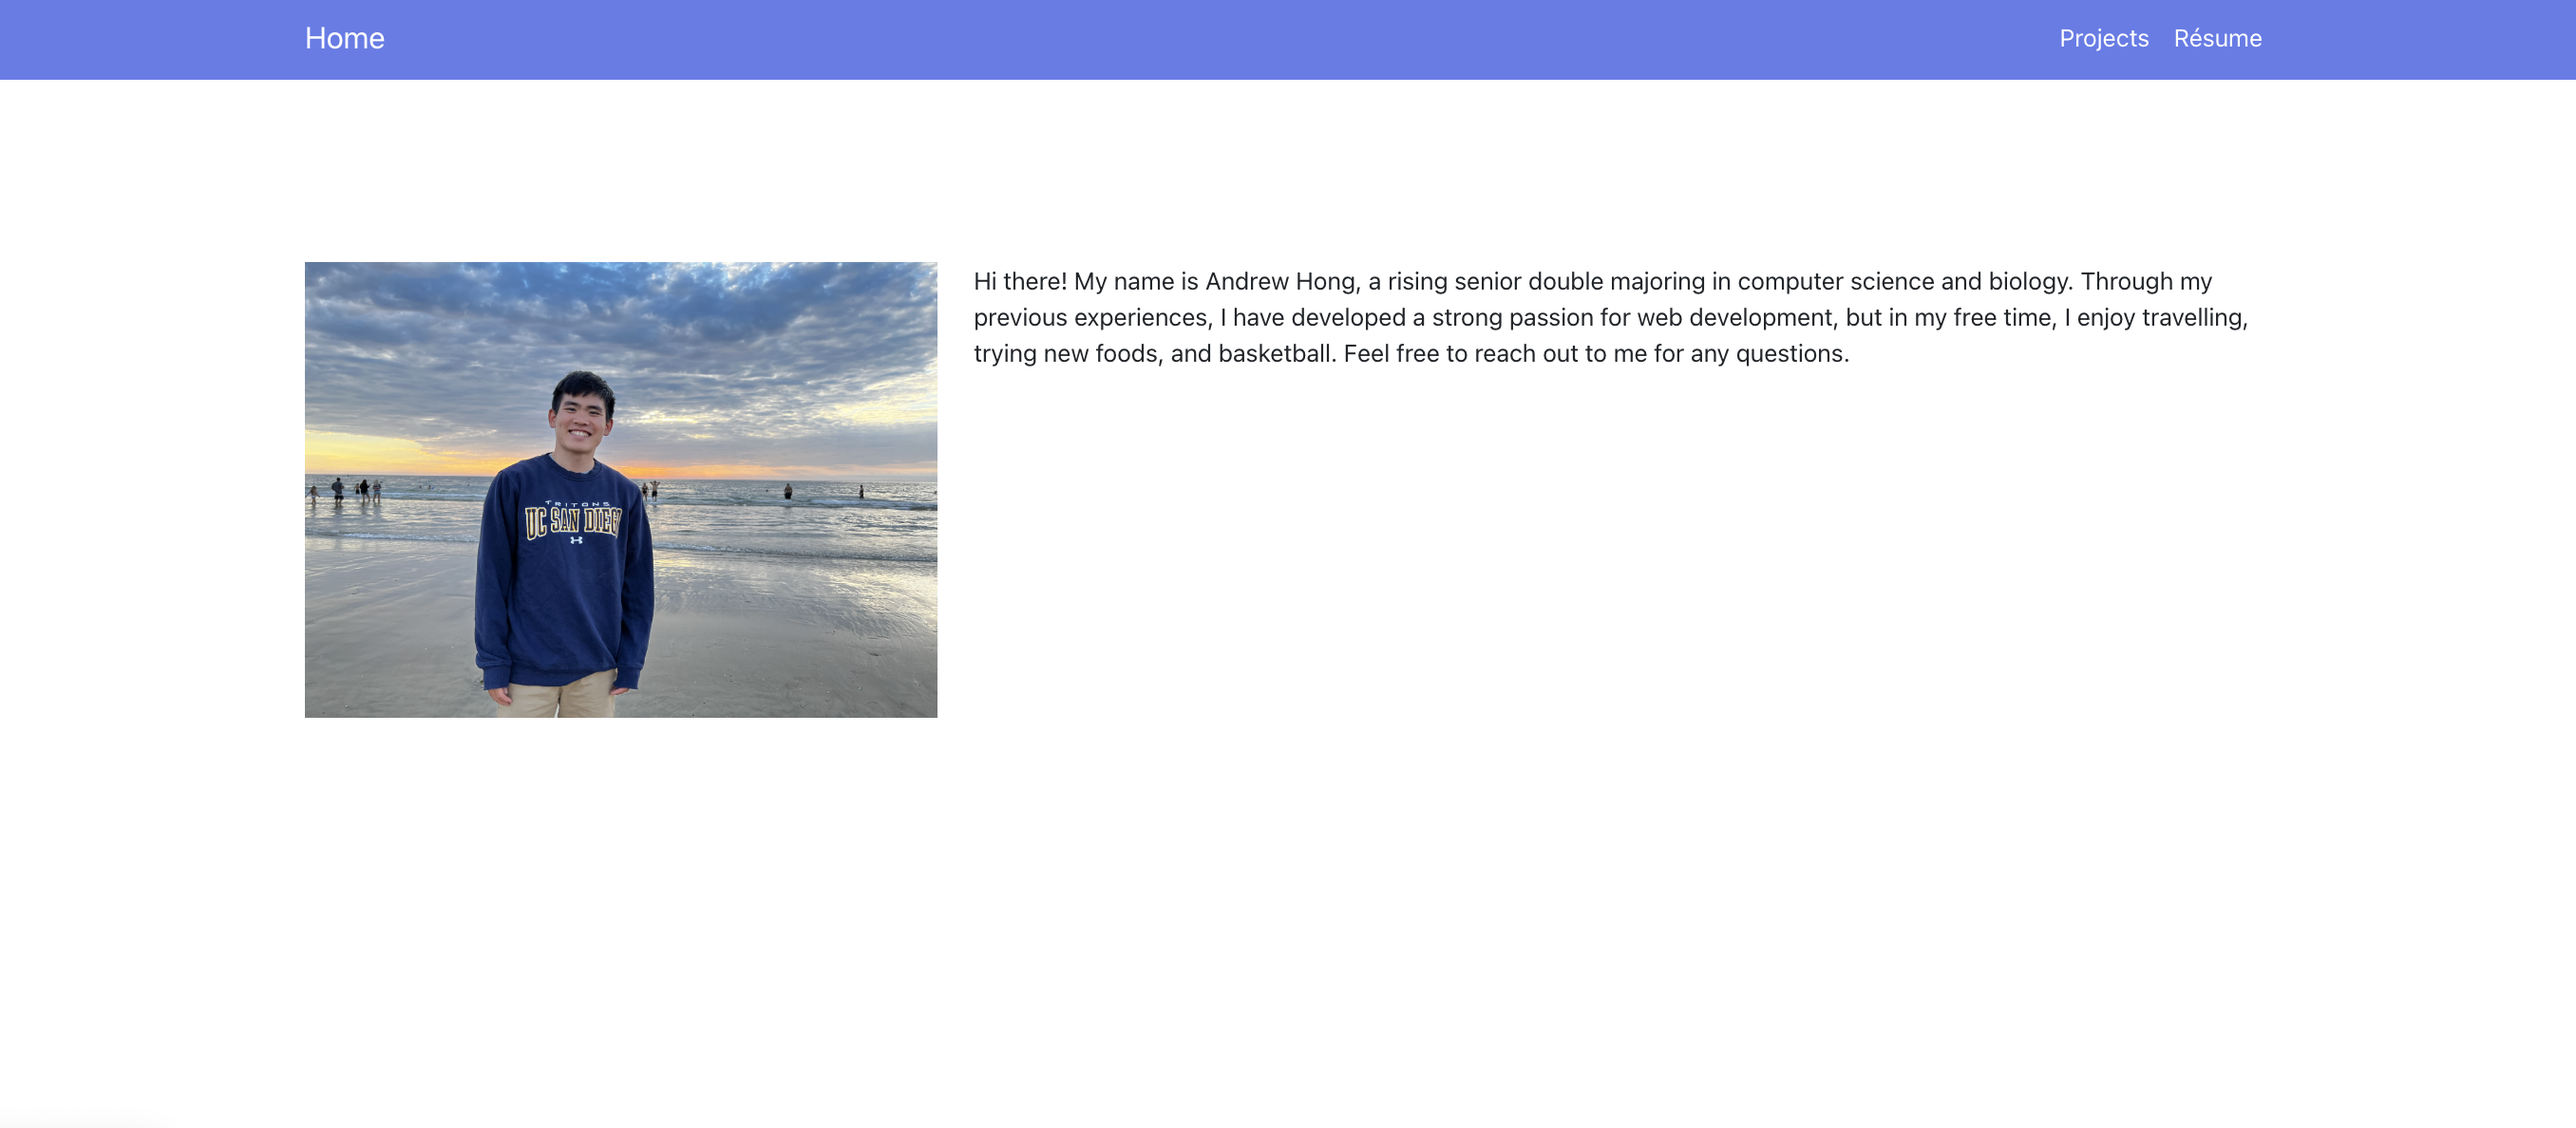
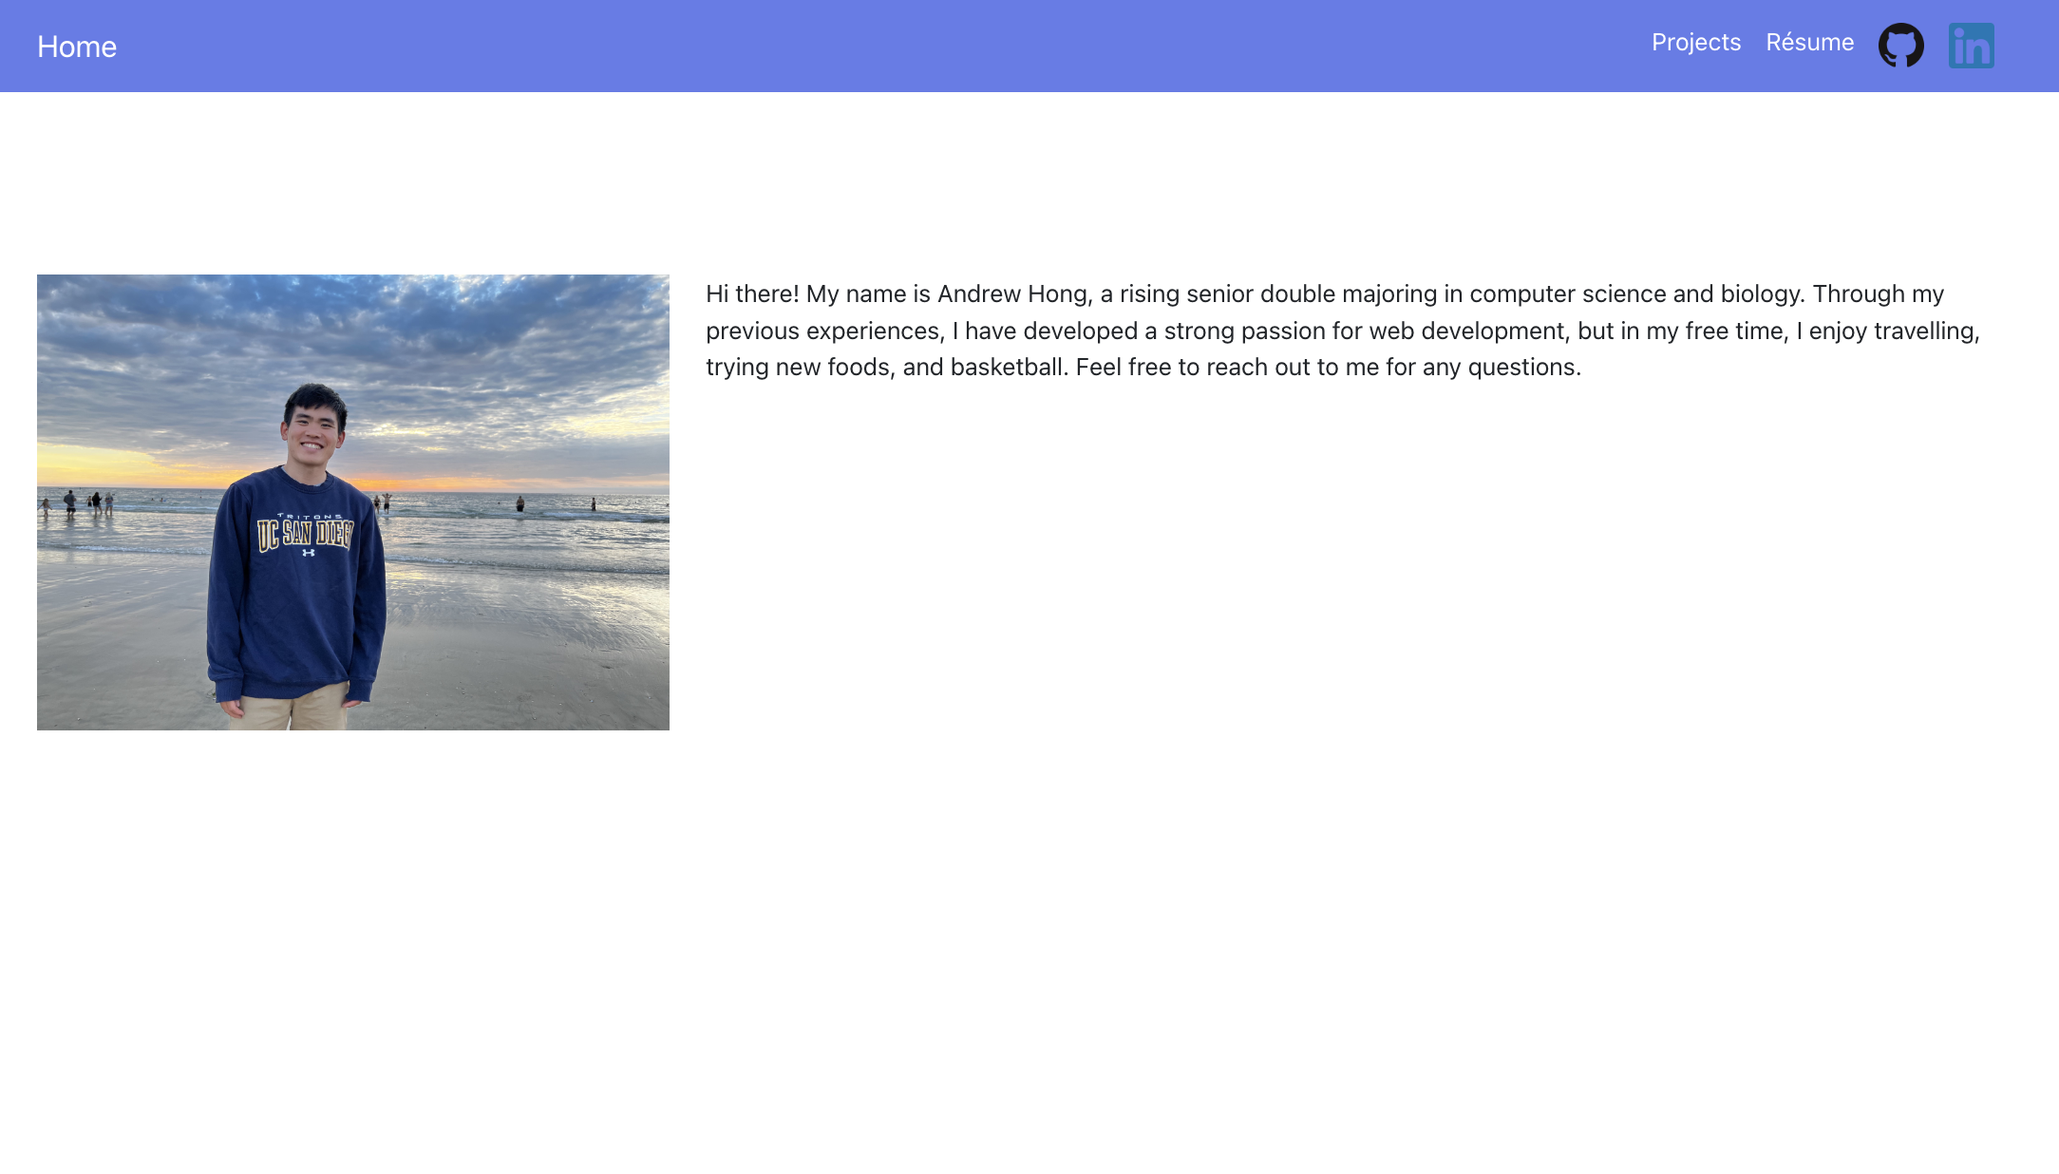
fix navbar

Changed region(s): [[0.0, 0.218, 0.958, 0.654], [0.0, 0.0, 1.0, 0.0934]]

diff --git a/src/components/MainNavBar.js b/src/components/MainNavBar.js
@@ -1,8 +1,11 @@
 import Container from 'react-bootstrap/Container';
 import Nav from 'react-bootstrap/Nav';
 import Navbar from 'react-bootstrap/Navbar';
+import Image from 'react-bootstrap/Image'
 import React from 'react';
 
+import github from "../data/images/gitHub.png";
+import linkedin from "../data/images/linkedin.png";
 import "./style/MainNavBar.css";
 
 class MainNavBar extends React.Component {
@@ -15,6 +18,12 @@ class MainNavBar extends React.Component {
                     <Nav className="ms-auto">
                         <Nav.Link className="link" href="/projects">Projects</Nav.Link>
                         <Nav.Link className="link" href="/resume">Résume</Nav.Link>
+                        <Nav.Link className="link" href="https://github.com/ahong8595">
+                            <Image className="image" src={github}></Image>
+                        </Nav.Link>
+                        <Nav.Link className="link" href="https://www.linkedin.com/in/andrew-hong-a99330149/">
+                            <Image className="image" src={linkedin}></Image>
+                        </Nav.Link>
                     </Nav>
                 </Navbar.Collapse>
             </Container>

diff --git a/src/components/style/MainNavBar.css b/src/components/style/MainNavBar.css
@@ -5,3 +5,8 @@
 .link {
     color: white !important;
 }
+
+.image {
+    height: 30px;
+    ;
+}
